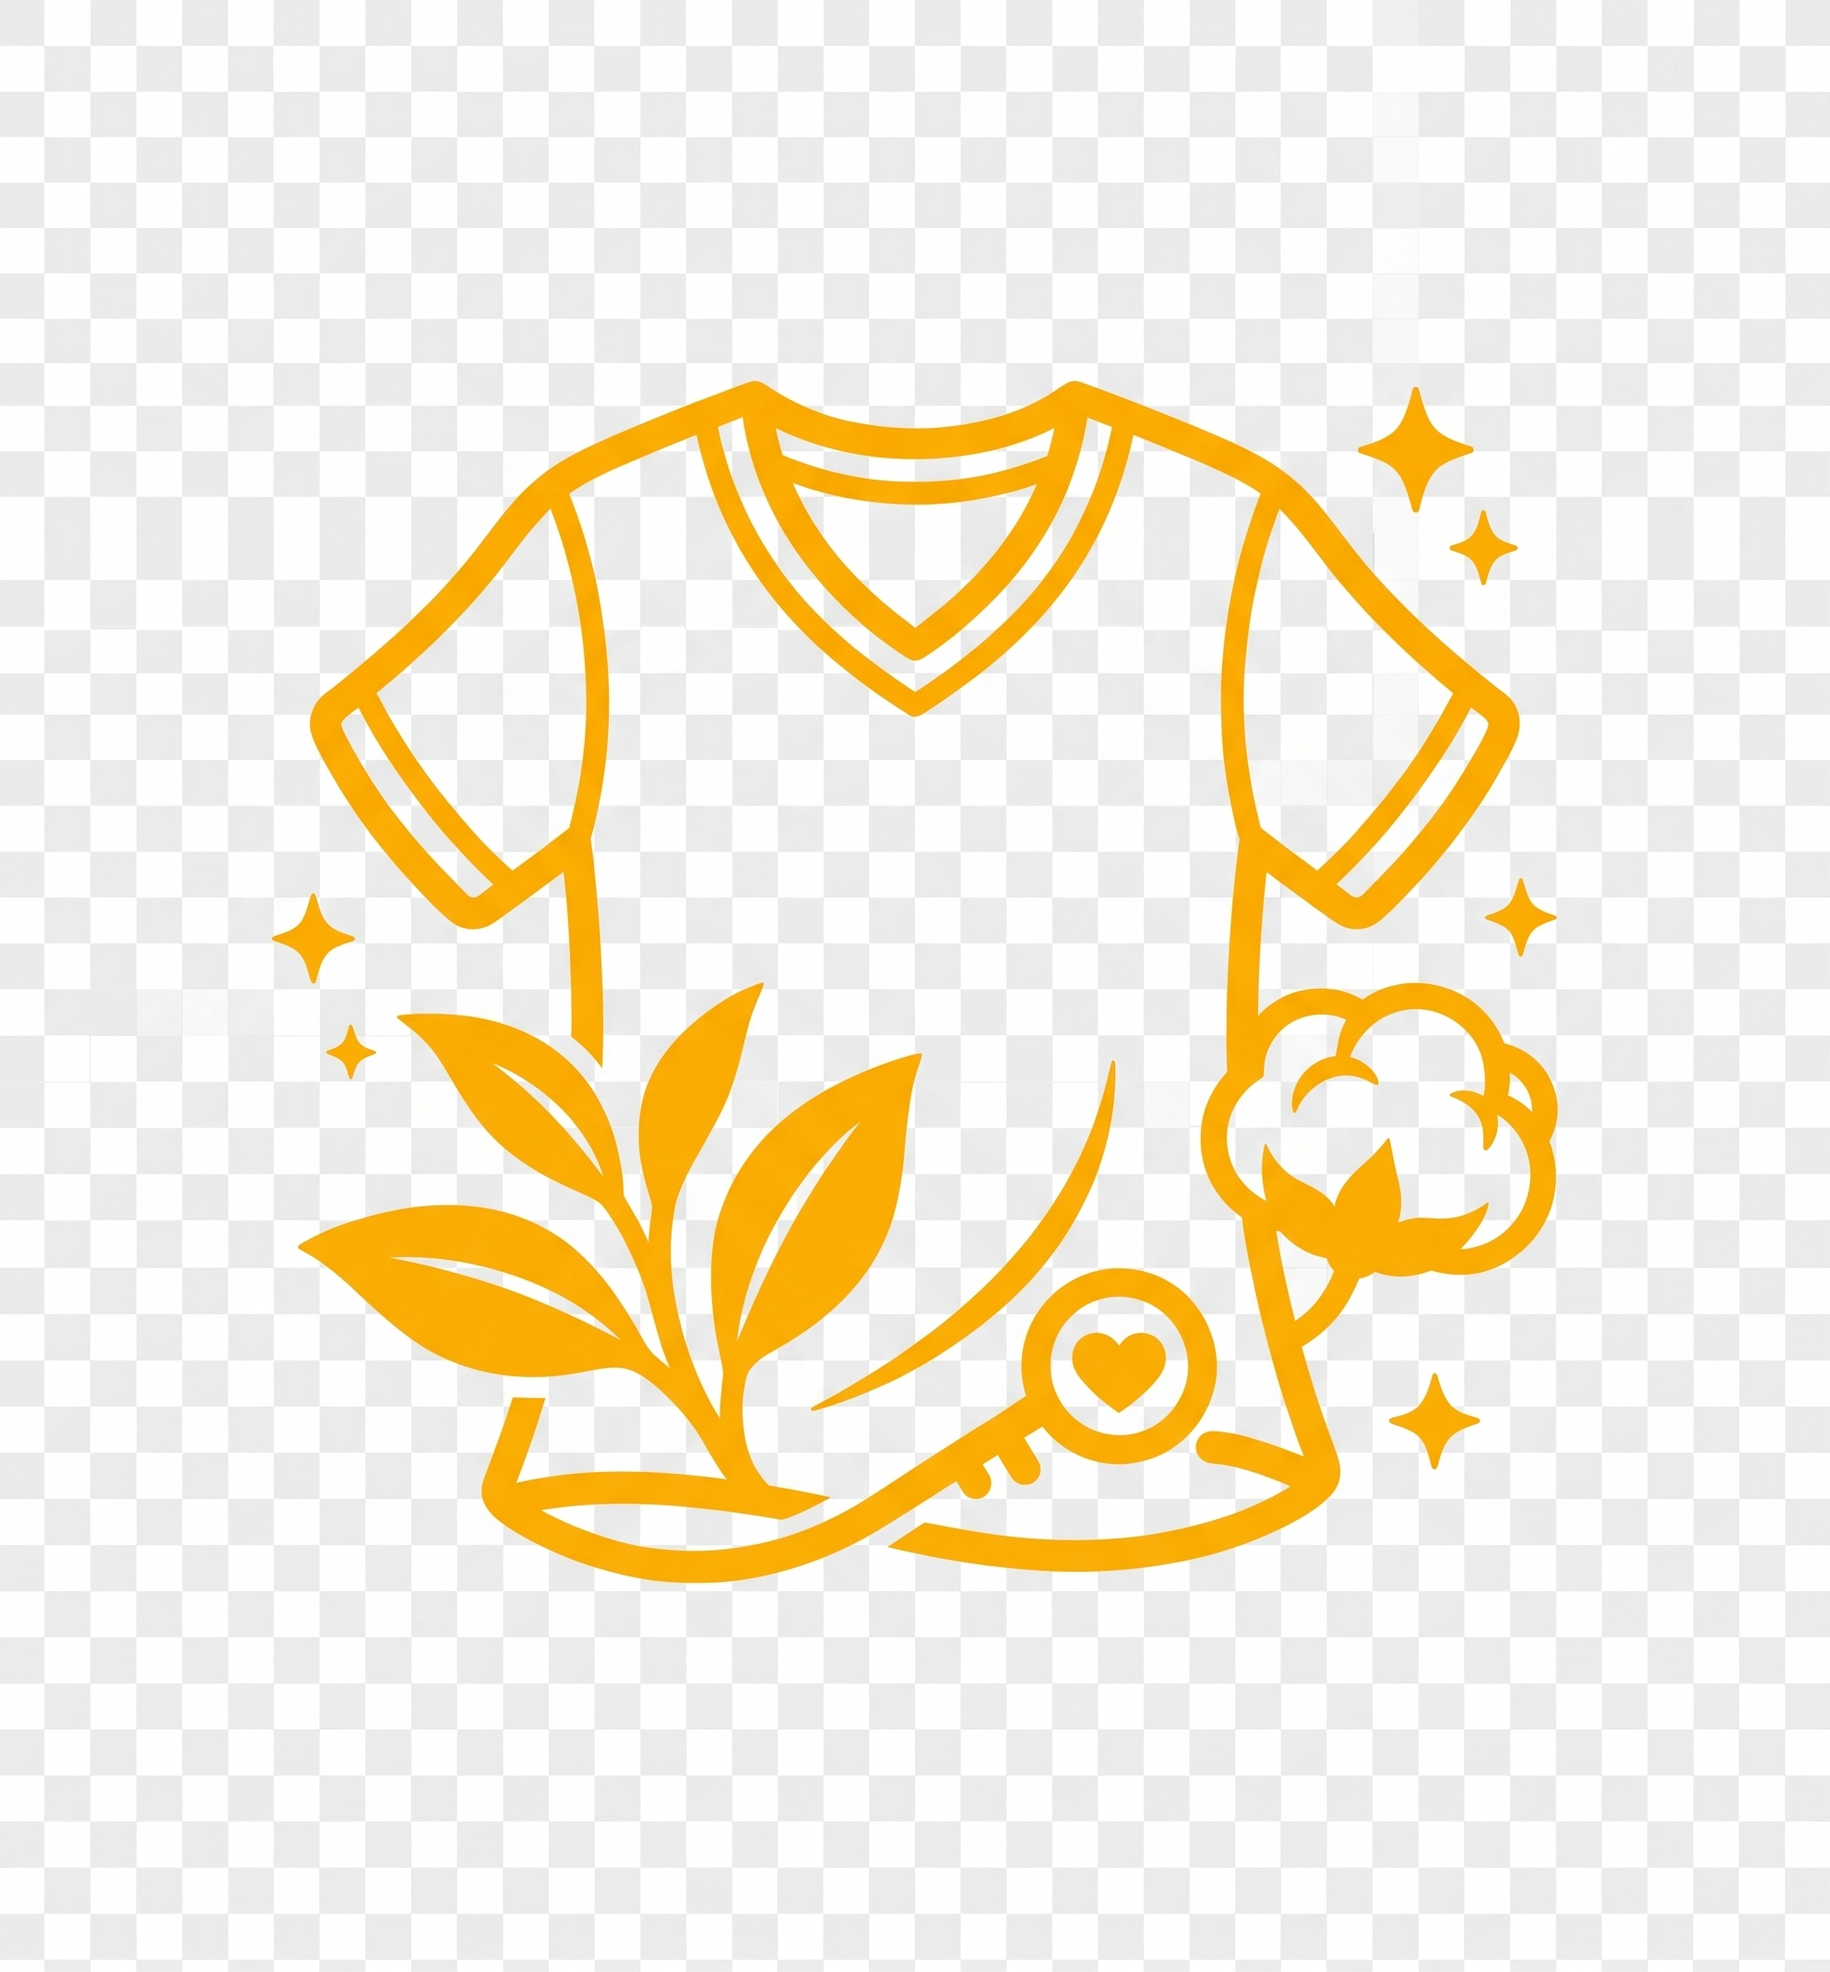
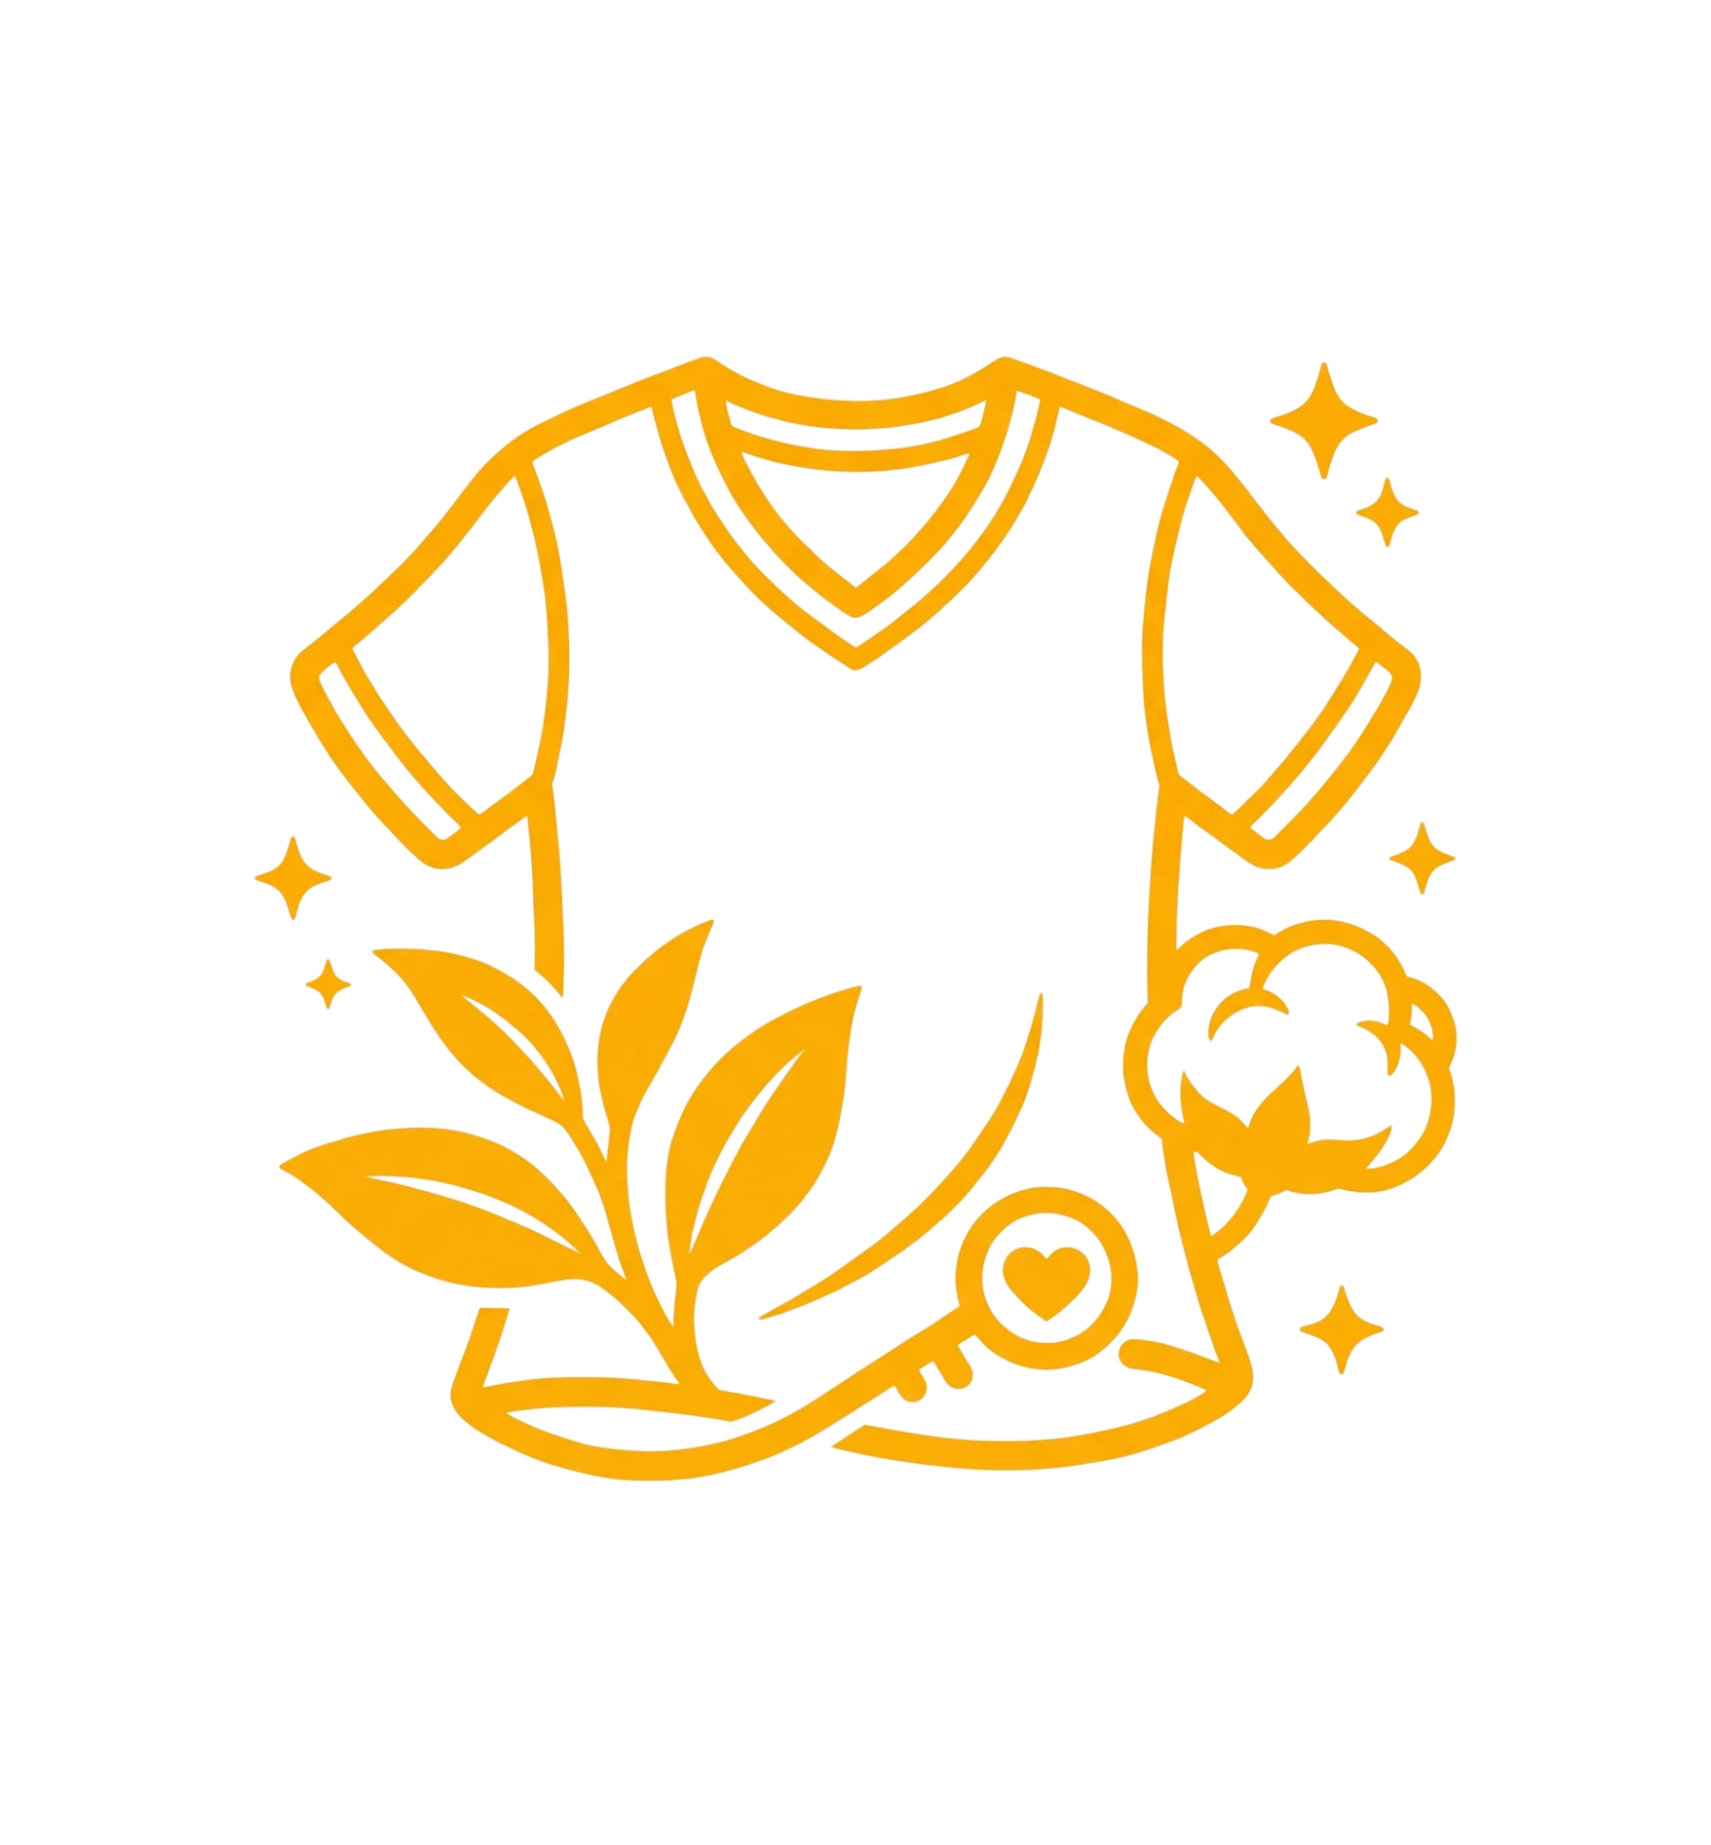
feat(assets): 背景が透過していなかったブースアイコン8点と37番ブースのイメージを差し替える

diff --git a/docs/reference/assets.md b/docs/reference/assets.md
@@ -255,8 +255,10 @@ public/
 - **転送量。** 39 点で約 30MB超、最大 3MB／点ある（`booth-07` / `booth-11` / `booth-26` /
   `booth-30` / `booth-39` が 1984×2138 前後）。一覧やビンゴ盤は表示寸法が 2.5rem 程度なので、
   **当日の回線を考えると縮小版（もしくは WebP）を用意したほうがよい**
-- **`booth/booth-09.png` は透過していない**（RGB・アルファなし）。クリーム地に置くと
-  白い四角が出る。他の点は RGBA
+- **背景が透過していなかったアイコン 8 点は 2026-10-11 に透過版へ差し替えた**
+  （`booth-07` / `09` / `11` / `26` / `28` / `30` / `37` / `39`）。同日に `booth/image/booth-37.png`
+  （LINEヤフー「田田田田」）も正式なイメージに差し替えた。
+  **`booth/booth-21.png` はまだ 567×331 の仮画像（透過なし）のまま**
 - **番号とブースの対応はサーバーの `display_code` が正本。** 下表は受領時の
   ファイル名に書かれていた出展者名で、突き合わせの手掛かりにすぎない
 
